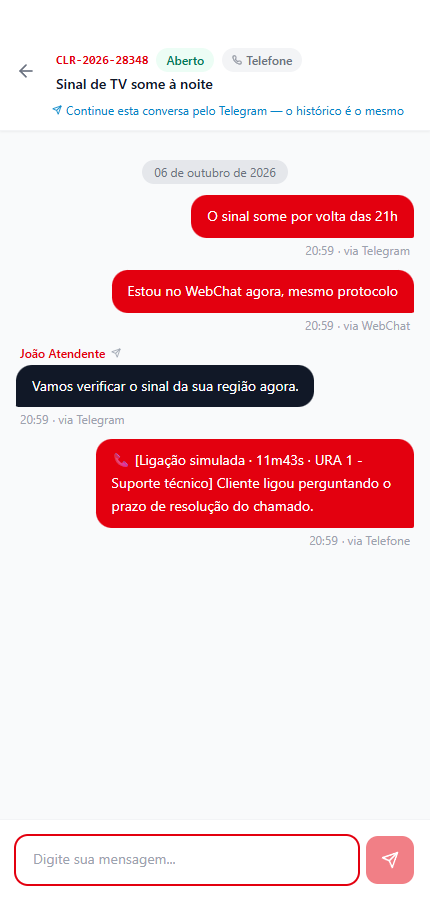
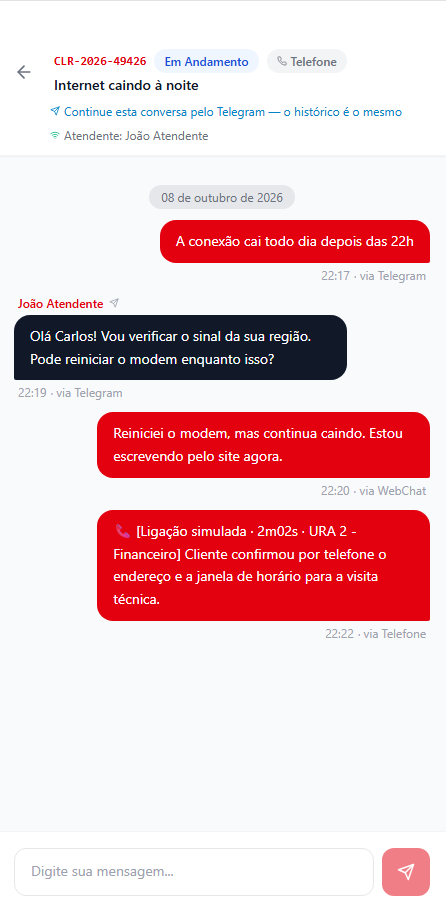
docs: README com capturas reais do bot, da IA e dos apps
- Prints reais: Clara (IA) atendendo e transferindo no Telegram, resposta
  do atendente chegando no Telegram, /historico com os três canais,
  timelines do app e do painel, Telegram conectado e Clara no WebChat
- Card de transferência da IA e dashboard gerados por
  npm run docs:screenshots (ambiente isolado; legenda explica)
- Remove capturas antigas que mostravam o bot de teste

Claude-Session: https://claude.ai/code/session_01XjriUprHJGESNrQNEU4VsW

diff --git a/README.md b/README.md
@@ -72,6 +72,7 @@ Outros comandos úteis (na raiz):
 | `npm run db:reset` | Apaga o banco, reaplica as migrações e roda o seed |
 | `npm test` | Testes unitários + e2e do Telegram, da assistente e de interface |
 | `npm run test:e2e:2fa` | Login com 2FA no navegador (exige `npm run dev` rodando) |
+| `npm run docs:screenshots` | Regera as capturas do painel usadas neste README (ambiente de teste isolado) |
 
 ### Credenciais de demonstração
 
@@ -218,15 +219,31 @@ Teste manual com o bot real **@claro_omnichannel_mathcerq_bot** (com `npm run de
 8. **Encerramento:** no painel, **Encerrar**. O cliente recebe o aviso no Telegram, e a próxima mensagem abre outro protocolo (o encerrado não é reaberto).
 9. **IA resolvendo sozinha:** no app, abra um chamado "Dúvida na fatura". A Clara responde com valor e vencimento; peça a 2ª via e depois diga "era só isso, obrigado". O protocolo é **encerrado pela IA**, sem humano, e entra na taxa de resolução do dashboard.
 
-| Vincular Telegram (app) | Timeline unificada (app) |
-|---|---|
-| ![Vincular Telegram](docs/screenshots/cliente-vincular-telegram.png) | ![Timeline no app](docs/screenshots/cliente-timeline-unificada.png) |
+### Telas reais
+
+Capturas do sistema rodando com o **bot real** [@claro_omnichannel_mathcerq_bot](https://t.me/claro_omnichannel_mathcerq_bot) e a **IA local** (Qwen3 4B via Ollama).
+
+| Clara (IA) atende no Telegram e transfere | Atendente responde pelo painel → chega no Telegram | `/historico`: Telegram, WebChat e telefone no mesmo protocolo |
+|---|---|---|
+| ![Clara no Telegram](docs/screenshots/telegram-clara-ia.png) | ![Resposta do atendente no Telegram](docs/screenshots/telegram-resposta-atendente.png) | ![Histórico unificado no Telegram](docs/screenshots/telegram-historico-unificado.png) |
+
+| App do cliente: Telegram conectado | App do cliente: Clara resolve pelo WebChat | App do cliente: timeline unificada |
+|---|---|---|
+| ![Telegram conectado](docs/screenshots/cliente-telegram-conectado.png) | ![Clara no WebChat](docs/screenshots/cliente-clara-webchat.png) | ![Timeline no app](docs/screenshots/cliente-timeline-unificada.png) |
+
+**Painel do atendente:** a mesma conversa com badge por canal, "✓ entregue no Telegram" e o telefone marcado como mock.
 
 ![Painel: timeline unificada com Telegram, WebChat e telefone simulado](docs/screenshots/painel-timeline-unificada.png)
 
-![Painel: dashboard com indicador de canais reais e mock](docs/screenshots/painel-dashboard.png)
+**Painel: transferência feita pela IA, com motivo e resumo do caso para o atendente**
 
-*Capturas geradas pelo teste automatizado de interface, que usa um servidor fake da Bot API (por isso o bot aparece como `@claro_test_bot`).*
+![Painel: card da assistente com o resumo da transferência](docs/screenshots/painel-ia-transferencia.png)
+
+**Painel: dashboard com canais reais/mock, métricas da IA e selo "Transferido pela IA"**
+
+![Painel: dashboard](docs/screenshots/painel-dashboard.png)
+
+*As duas últimas capturas foram geradas em ambiente de teste isolado (`npm run docs:screenshots`), com a assistente no motor de regras, porque o login de atendente no ambiente real exige o 2FA do celular. As demais são do sistema real.*
 
 ---
 

diff --git a/CLAUDE.md b/CLAUDE.md
@@ -23,6 +23,7 @@ npm run test:e2e:telegram  # backend isolado :3100 + Bot API fake
 npm run test:e2e:ui        # Playwright/Chrome: backend :3200 + vite :5273/:5274
 npm run test:e2e:2fa       # exige `npm run dev` rodando (usa o dev.db)
 npm run test:e2e:assistant # assistente com motor de regras (backend :3300)
+npm run docs:screenshots   # regera docs/screenshots/painel-*.png (ambiente isolado :3400/:5373)
 cd backend && npx ts-node scripts/assistant-scenarios.ts   # avalia a IA REAL (Ollama) em conversas
 ```
 
